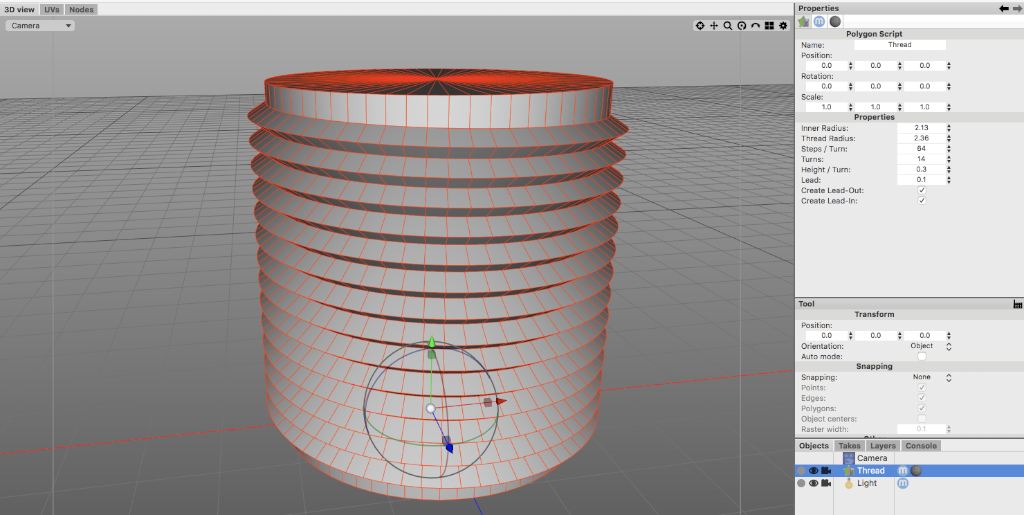
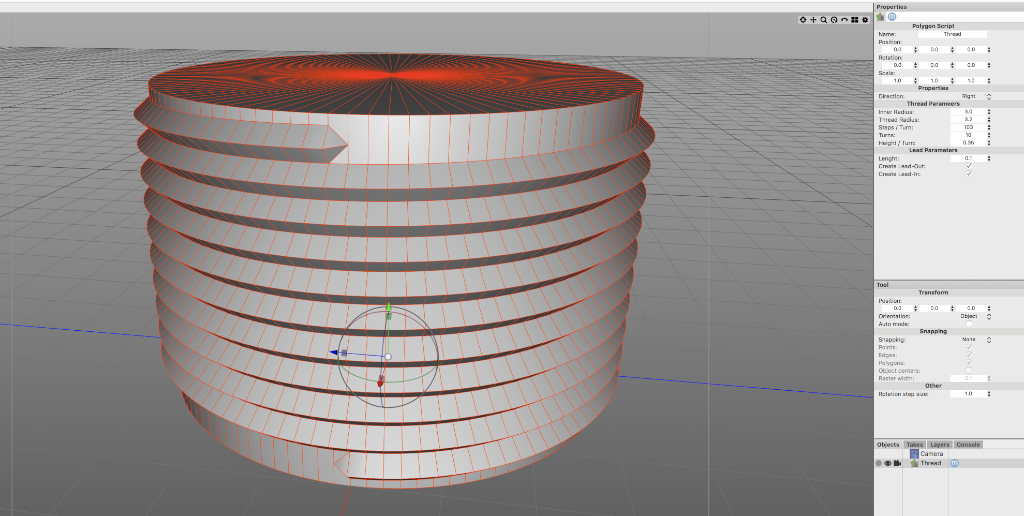
Added option to rotate right

diff --git a/Thread.js b/Thread.js
@@ -57,7 +57,7 @@ const LEADOUT  = "Create Lead-Out";
 // -------------------------------------------------------------------------
 function buildUI( obj ){
   obj.setParameter( "name","Thread" );
-  obj.addParameterSelector( DIRECTION, [LEFT, RIGHT ], true, true );
+  obj.addParameterSelector( DIRECTION, [ RIGHT, LEFT ], true, true );
 
   obj.addParameterSeparator( "Thread Parameers" );
   obj.addParameterFloat( INNERRAD, 1.0, 0.1, 100, true, true );
@@ -113,6 +113,7 @@ function ThreadGenerator( polyObject ) {
   this.lead      = polyObject.getParameter( LEAD );
   this.leadOut   = polyObject.getParameter( LEADOUT );
   this.leadIn    = polyObject.getParameter( LEADIN );
+  this.turnRight = polyObject.getParameter( DIRECTION ) == 0;
 
   if ( this.leadIn == false ) {
     this.yOff = 0.0;
@@ -180,11 +181,12 @@ ThreadGenerator.prototype.buildThread = function() {
 //    movingHeight  Flag to increase hight per step up to specified height
 // -------------------------------------------------------------------------
 ThreadGenerator.prototype.addVertexRing = function( radius, yStart, height, movingHeight ) {
-  let sMax = this.steps;  // steps per thread rotation
-  let core = this.core;   // the object to add polygons to
+  let sMax    = this.steps;  // steps per thread rotation
+  let core    = this.core;   // the object to add polygons to
+  let fullRot = Math.PI * (this.turnRight?-2:2);
 
   for ( let step = 0; step < sMax; ++step ) {
-    let ang = Math.PI * (step / sMax) * 2;
+    let ang = fullRot * (step / sMax);
     let x   = Math.cos( ang ) * radius;
     let y   = yStart + ((height / sMax) * step);
     let z   = Math.sin( ang ) * radius;
@@ -213,7 +215,7 @@ ThreadGenerator.prototype.createPolygons = function( firstVertex ) {
     let p0 = firstVertex + step;
 
     // the next (higher) layer is direcely steps vertices away
-    core.addIndexPolygon( 4, [ p0, p0 + 1, p0 + 1 + sMax, p0 + sMax ] );
+    this.addPolygon( [ p0, p0 + 1, p0 + 1 + sMax, p0 + sMax ] );
   }
 }
 
@@ -234,8 +236,8 @@ ThreadGenerator.prototype.closeThreadGaps = function() {
     let p0Last = (rot * s2) + (sMax - 1);
     let p1Next = (rot + 1) * s2;
 
-    core.addIndexPolygon( 4, [ p1Next, p1Next + sMax, p0Last + sMax, p0Last ] );
-    core.addIndexPolygon( 4, [ p1Next + sMax, p1Next + s2, p0Last + s2, p0Last + sMax ] );
+    this.addPolygon( [ p1Next, p1Next + sMax, p0Last + sMax, p0Last ] );
+    this.addPolygon( [ p1Next + sMax, p1Next + s2, p0Last + s2, p0Last + sMax ] );
   }
 }
 
@@ -257,7 +259,7 @@ ThreadGenerator.prototype.createLeadIn = function() {
 
   // create lead in side segements
   for ( let step = 0; step < sMax - 1; ++step ) {
-    core.addIndexPolygon( 4, [p0 + step, p0 + step + 1, step + 1, step ] );
+    this.addPolygon( [p0 + step, p0 + step + 1, step + 1, step ] );
   }
 
   // close gap of lead in
@@ -265,20 +267,20 @@ ThreadGenerator.prototype.createLeadIn = function() {
   let pLM   = new Vec3D( pLU.x, pLU.y - (h / 2), pLU.z );
   let pLast = core.addVertex( false, pLM );
 
-  core.addIndexPolygon( 3, [ sMax, numPRot, pLast ] );
-  core.addIndexPolygon( 3, [ sMax, pLast, 0 ] );
-  core.addIndexPolygon( 3, [ numPRot, sMax - 1, pLast ] );
-  core.addIndexPolygon( 4, [ p0, 0, pLast, p0 + sMax - 1 ] );
+  this.addPolygon( [ sMax, numPRot, pLast ] );
+  this.addPolygon( [ sMax, pLast, 0 ] );
+  this.addPolygon( [ numPRot, sMax - 1, pLast ] );
+  this.addPolygon( [ p0, 0, pLast, p0 + sMax - 1 ] );
 
   // add center point at 0/0/0 for the bottom lid
   let pC = core.addVertex( false, new Vec3D( 0, 0, 0 ) );
 
   // clode the bottom lid
   for ( let step = 0; step < sMax - 1; ++step ) {
-    core.addIndexPolygon( 3, [ pC, p0 + step + 1, p0 + step ] );
+    this.addPolygon( [ pC, p0 + step + 1, p0 + step ] );
   }
 
-  core.addIndexPolygon( 3, [ pC, p0, p0 + sMax - 1 ] );
+  this.addPolygon( [ pC, p0, p0 + sMax - 1 ] );
 }
 
 // Helper to create the optional lead out.
@@ -306,18 +308,38 @@ ThreadGenerator.prototype.createLeadOut = function() {
   let pLD   = core.vertex( p0 + 1 - sMax );  // left down (bottom of lead out)
   let pLM   = new Vec3D( pLD.x, pLD.y + (h / 2), pLD.z );
   let pLast = core.addVertex( false, pLM );  // add midpoint between pLD and up
-  core.addIndexPolygon( 3, [ p0, p0 - sMax, pLast ] );
-  core.addIndexPolygon( 3, [ p0 - sMax, p0 - numPRot, pLast ] );
-  core.addIndexPolygon( 4, [ p0 + sMax, p0, pLast, p0 + 1 ] );
-  core.addIndexPolygon( 3, [ p0 - numPRot,  p0 - sMax + 1, pLast ] );
+  this.addPolygon( [ p0, p0 - sMax, pLast ] );
+  this.addPolygon( [ p0 - sMax, p0 - numPRot, pLast ] );
+  this.addPolygon( [ p0 + sMax, p0, pLast, p0 + 1 ] );
+  this.addPolygon( [ p0 - numPRot,  p0 - sMax + 1, pLast ] );
 
   // create center point for top lid
   let pC = new Vec3D( 0, (rMax * h) + h + lead + yOff, 0 );
   pLast = core.addVertex( false, pC );
 
   for ( let step = 0; step < sMax - 1; ++step ) {
-    core.addIndexPolygon( 3, [ p0 + 1 + step, p0 + 2 + step, pLast ] );
+    this.addPolygon( [ p0 + 1 + step, p0 + 2 + step, pLast ] );
   }
 
-  core.addIndexPolygon( 3, [ p0 + 1, pLast, p0 + sMax ] );
+  this.addPolygon( [ p0 + 1, pLast, p0 + sMax ] );
+}
+
+// Helper to create a polygon with the specifyed vertices.
+// The method expects an array of vertex indices and creates a new
+// polygon with these vertices. Bu default, we pass in the vertices
+// in counter clockwise order because the original code creates a
+// left rotation threaded cylinder. For a right rotating threaded
+// cylinder, we just create the vertices in opposite order. Now, all
+// normal vectors would look inside. So, we reverse the order of the
+// passed in vertices for a right rotating threaded cylinder to
+// compensate for this problem.
+//
+// Parameters:
+//    indexArray The array of vertex indices
+// -------------------------------------------------------------------------
+ThreadGenerator.prototype.addPolygon = function( indexArray ) {
+  let core    = this.core;       // the object to add polygons to
+  let reverse = this.turnRight;  // we need to reverse the vertext order
+
+  core.addIndexPolygon( indexArray.length, reverse?indexArray.reverse():indexArray );
 }
